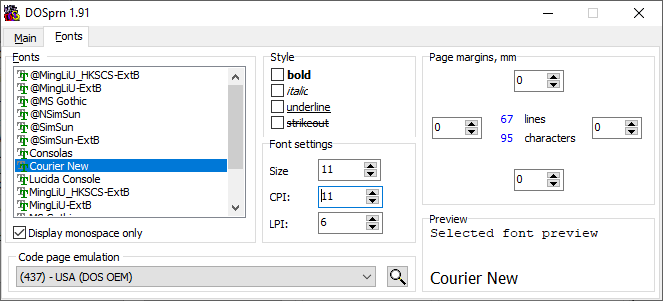
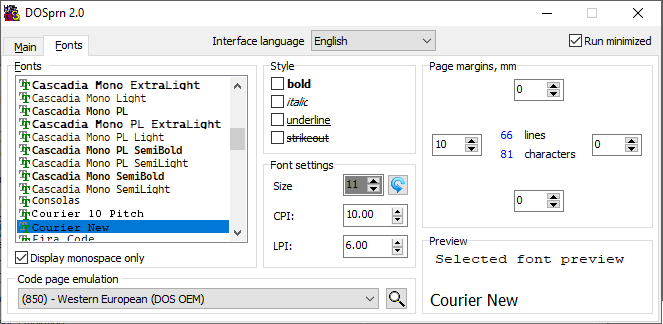
v2.0

diff --git a/download.htm b/download.htm
@@ -1,5 +1,5 @@
 <!DOCTYPE HTML PUBLIC "-//W3C//DTD HTML 4.0 Transitional//EN">
-<HTML><HEAD><TITLE>DOSPRN 1.91 download now for free</TITLE>
+<HTML><HEAD><TITLE>DOSPRN 2.0 download now for free</TITLE>
 <META http-equiv=Content-Language content=en-us>
 <META http-equiv=Content-Type content="text/html; charset=windows-1252">
 <META name=Keywords content="dos print usb, dos print download, dos printer, dos usb driver, dos print command, DOS, printers, printer USB, LPT, DOS program" >
@@ -20,7 +20,7 @@
 <TABLE cellSpacing=0 cellPadding=6 width=50% style="max-width:640px" border=0>
   <TR>
     <TD width=100%>
-      <div style="float:left"><IMG src="images/logo.gif" ALT="DOS USB print under Windows 10, Windows 8, Windows 7, Windows XP, Windows2000, Windows98"> <font size="5"><b>&nbsp;DOSPRN&nbsp;1.91&nbsp;</b></font></div>
+      <div style="float:left"><IMG src="images/logo.gif" ALT="DOS USB print under Windows 10, Windows 8, Windows 7, Windows XP, Windows2000, Windows98"> <font size="5"><b>&nbsp;DOSPRN&nbsp;2.0&nbsp;</b></font></div>
   
       <table border="2" bgcolor="#C0C0C0" cellpadding="4" cellspacing="4">
         <tr>
@@ -58,9 +58,8 @@
       and <a href="faq.htm">our FAQ</a>.<br>
       <br>
 
-      <a href="https://www.dosprn.com/DOSprn191.exe">
-
-      Click here for download the self-extracting file <i>DOSprn191.exe (1.9 Mb)</i></a><br>
+      <strong><a href="https://www.dosprn.com/DOSprn200.exe">
+      <font size="+1">Click here for download the self-extracting file <i>DOSprn200.exe (2.0 Mb)</i></font></a></strong><br>
       <br>
       DOSPRN will remind you about registration each time you print report from your DOS application. If you have
       any questions about
@@ -94,20 +93,14 @@
 
 </style>
 <div class='box green font-white'>
-<b>We offer you to download the pre-release of the new version of DOSPRN 2.0.<br>Added the ability to preview documents and save them in PDF format.<br><br>
-<a href="https://www.dosprn.com/DOSprn200.exe" class='font-white'>
-
-Click here to download the self-extracting file <i>DOSprn200.exe (2.0 Mb)</i> build from 2024/03/13</a><br><br>
-
-<P align=center><IMG height=200 src="mainw8.png" ALT="DOSBOX and VDOS printer" > </P>
 
 The file is safe and does not contain malicious code: <a href="https://www.virustotal.com/gui/url/5bb94ba94cbccc8a46e63064ace83655b5081754b4208c1f3b773fb17bcbcf07?nocache=1" class='font-white' target="_blank">
-<IMG src="images/virus-free-32.png" />VirusTotal Report</a>
+<IMG src="images/virus-free-32.png" alt="DOSPRN is safe"/>VirusTotal Report</a>
 
-<br><br>We will be happy to accept any comments and wishes. <br></b>
+<br></b>
 
 </div>
-      <p></p></TD></TR>
+      <p><br>We will be happy to accept any comments and wishes. <br></p></TD></TR>
   <TR>
     <TD align=middle width="100%" style="line-height:1.5">
       <HR><font size="+1">
@@ -124,7 +117,7 @@ The file is safe and does not contain malicious code: <a href="https://www.virus
 <!-- Google Code for pageview Conversion Page -->
 <script language="JavaScript" type="text/javascript">
 <!--
-var google_conversion_id = 105991.912;
+var google_conversion_id = 105992.02;
 var google_conversion_language = "en_US";
 var google_conversion_format = "1";
 var google_conversion_color = "CCCCCC";
@@ -137,7 +130,7 @@ var google_conversion_label = "pageview";
 <script language="JavaScript" src="https://www.googleadservices.com/pagead/conversion.js">
 </script>
 <noscript>
-<img height=1 width=1 border=0 src="https://www.googleadservices.com/pagead/conversion/105991.912/imp.gif?value=1.0&label=pageview&script=0">
+<img height=1 width=1 border=0 src="https://www.googleadservices.com/pagead/conversion/105992.02/imp.gif?value=1.0&label=pageview&script=0">
 </noscript>
 
 

diff --git a/news.htm b/news.htm
@@ -1,5 +1,5 @@
 <!DOCTYPE HTML PUBLIC "-//W3C//DTD HTML 4.0 Transitional//EN">
-<HTML><HEAD><TITLE>DOSPRN 1.91 whats new section, new features and bug fixes</TITLE>
+<HTML><HEAD><TITLE>DOSPRN 2.0 whats new section, new features and bug fixes</TITLE>
 <META http-equiv=Content-Language content=en-us>
 <META http-equiv=Content-Type content="text/html; charset=windows-1252">
 <META name=Keywords  content="dos print news, dos printer driver, dos printer, dos usb driver, dos print command, DOS, DOSBOX printers, DOSBOX program, DOSBOX print, DOSBOX printer, DOSBOX USB, DOSBOX programs, DOSBOX LPT, DOS program, DOSBOX software" >
@@ -20,7 +20,7 @@
 <TABLE cellSpacing=0 cellPadding=6 width=50% style="max-width:640px" border=0>
   <TR>
     <TD width=100%>
-      <div style="float:left"><IMG src="images/logo.gif" ALT="DOS USB print under Windows 8, Windows 7, Windows XP, Windows2000, Windows98"> <font size="5"><b>&nbsp;DOSPRN&nbsp;1.91&nbsp;</b></font></div>
+      <div style="float:left"><IMG src="images/logo.gif" ALT="DOS USB print under Windows 8, Windows 7, Windows XP, Windows2000, Windows98"> <font size="5"><b>&nbsp;DOSPRN&nbsp;2.0&nbsp;</b></font></div>
   
       <table border="2" bgcolor="#C0C0C0" cellpadding="4" cellspacing="4">
         <tr>
@@ -52,11 +52,11 @@
       <H1>What's new</H1>
 
       <P><B>Version 2.0</B></P>
-      + added "Print Preview" option<br>
-      + added "Print To PDF" option<br>
+      + added <a href="print-preview.htm">Print Preview</a> option<br>
+      + added <a href="pdf-settings.htm">Print To PDF</a> option<br>
       + added support serial ports COM1..COM3<br>
       + added Save and Load settings service options<br>
-      + added the ability to create a "QR code" from the text embedded in the report<br>
+      + added the ability to create a <a href="inline-qrcode.htm">QR code</a> from the text embedded in the report<br>
       + added language interface in Traditional Chinese<br>
       + added partial emulation of ETEN Chinese sequences<br>
       * major interface changes<br>

diff --git a/inline-qrcode.htm b/inline-qrcode.htm
@@ -1,5 +1,5 @@
 <!DOCTYPE HTML PUBLIC "-//W3C//DTD HTML 4.0 Transitional//EN">
-<HTML><HEAD><TITLE>DOSPRN 1.91 inline qrcode allows to create QR-codes</TITLE>
+<HTML><HEAD><TITLE>DOSPRN 2.0 inline qrcode allows to create QR-codes</TITLE>
 <META http-equiv=Content-Language content=en-us>
 <META http-equiv=Content-Type content="text/html; charset=utf-8">
 <META name=Keywords  content="inline qrcode, DOS report bitmap, dos print command, DOS, printers, program, print, printer, USB, programs, LPT, DOS program, software, national, language, qr-code" >
@@ -20,7 +20,7 @@
 <TABLE cellSpacing=0 cellPadding=6 width=50% style="max-width:640px" border=0>
   <TR>
     <TD width=100%>
-      <div style="float:left"><IMG src="images/logo.gif" ALT="DOS USB print under Windows 11, Windows 10, Windows 8, Windows 7, Windows XP, Windows2000, Windows98"> <font size="5"><b>&nbsp;DOSPRN&nbsp;1.91&nbsp;</b></font></div>
+      <div style="float:left"><IMG src="images/logo.gif" ALT="DOS USB print under Windows 11, Windows 10, Windows 8, Windows 7, Windows XP, Windows2000, Windows98"> <font size="5"><b>&nbsp;DOSPRN&nbsp;2.0&nbsp;</b></font></div>
   
       <table border="2" bgcolor="#C0C0C0" cellpadding="4" cellspacing="4">
         <tr>
@@ -55,7 +55,10 @@
 	<h4>Escape commands could have a format</h4>
 
 <code>
-ESC~9;ZZ;"filename.txt" - print QR-code, where ZZ - is a zoom factor<br>
+ESC~7;ZZ;"qrcode raw text" - print a QR code from the raw text<br><br>
+ESC~8;ZZ;"filename.txt" - print the QR code from the file in UTF-8<br><br>
+ESC~9;ZZ;"filename.txt" - print a QR code from the file with the same code page as the main report<br><br>
+where ZZ - is a zoom factor<br>
 </code>
 
 	<h4>This is a part of a demo program in the BASIC syntax includes sample QR-code file into the document:</h4>

diff --git a/readme.htm b/readme.htm
@@ -1,5 +1,5 @@
 <!DOCTYPE HTML PUBLIC "-//W3C//DTD HTML 4.0 Transitional//EN">
-<HTML><HEAD><TITLE>DOSPRN 1.91 manual and main features description</TITLE>
+<HTML><HEAD><TITLE>DOSPRN 2.0 manual and main features description</TITLE>
 <META http-equiv=Content-Type content="text/html; charset=windows-1252">
 <META http-equiv=Content-Language content=en-us>
 <META name=Keywords  content="DOS, printers, program, print, printer, USB, programs, LPT, DOS program, software, national, language, internanional" >
@@ -19,7 +19,7 @@
 <TABLE cellSpacing=0 cellPadding=6 width=50% style="max-width:640px" border=0>
   <TR>
     <TD width=100%>
-      <div style="float:left"><IMG src="images/logo.gif" ALT="DOS USB print under Windows 8, Windows 7, Windows XP, Windows2000, Windows98"> <font size="5"><b>&nbsp;DOSPRN&nbsp;1.91&nbsp;</b></font></div>
+      <div style="float:left"><IMG src="images/logo.gif" ALT="DOS USB print under Windows 8, Windows 7, Windows XP, Windows2000, Windows98"> <font size="5"><b>&nbsp;DOSPRN&nbsp;2.0&nbsp;</b></font></div>
   
       <table border="2" bgcolor="#C0C0C0" cellpadding="4" cellspacing="4">
         <tr>
@@ -61,7 +61,7 @@
       should register your copy or remove it completely from your computer with the uninstall utility under the DOSPRN Program Group.</P>
       <H3 align=justify>Installation</H3>
       <P align=justify>Download and run the self-extracting file <I>
-      <a href="https://www.dosprn.com/DOSprn191.exe">DOSprn191.exe</a></I>. 
+      <a href="https://www.dosprn.com/DOSprn200.exe">DOSprn200.exe</a></I>. 
       You'll be asked some simple questions. During installation, 
       DOSPRN copies all needed files and shortcuts to your computer.</P>
       <H3 align=justify>Program Start</H3>You can start DOSPRN by

diff --git a/vox.htm b/vox.htm
@@ -1,5 +1,5 @@
 <!DOCTYPE HTML PUBLIC "-//W3C//DTD HTML 4.0 Transitional//EN">
-<HTML><HEAD><TITLE>DOSPRN 1.91 testimonials and user reviews</TITLE>
+<HTML><HEAD><TITLE>DOSPRN 2.0 testimonials and user reviews</TITLE>
 <META http-equiv=Content-Language content=en-us>
 <META http-equiv=Content-Type content="text/html; charset=utf-8">
 <META name=Description content="What spoke ordinary users and writers in technical reviews about DOSPRN software">
@@ -20,7 +20,7 @@
 <TABLE cellSpacing=0 cellPadding=6 width=50% style="max-width:640px" border=0>
   <TR>
     <TD width=100%>
-      <div style="float:left"><IMG src="images/logo.gif" ALT="DOS USB print under Windows 8, Windows 7, Windows XP, Windows2000, Windows98"> <font size="5"><b>&nbsp;DOSPRN&nbsp;1.91&nbsp;</b></font></div>
+      <div style="float:left"><IMG src="images/logo.gif" ALT="DOS USB print under Windows 8, Windows 7, Windows XP, Windows2000, Windows98"> <font size="5"><b>&nbsp;DOSPRN&nbsp;2.0&nbsp;</b></font></div>
   
       <table border="2" bgcolor="#C0C0C0" cellpadding="4" cellspacing="4">
         <tr>
@@ -201,7 +201,7 @@ So happy to support your efforts.&quot;</p>
           </td>
         </tr>
         <tr>
-          <td><i>Francis G. McCloskey &lt;FrFrancis&#64;OhSaratoga.com&gt;</i><p>&quot;...A small bunch of us are still using DOSprn 1.91 with out DOS EnableOA program and think it's 
+          <td><i>Francis G. McCloskey &lt;FrFrancis&#64;OhSaratoga.com&gt;</i><p>&quot;...A small bunch of us are still using DOSprn 2.0 with out DOS EnableOA program and think it's 
 	  the best DOS to Windows printers program out there..........&quot;</p>
           <hr width="90%" color="#008000">
           </td>

diff --git a/order.htm b/order.htm
@@ -1,5 +1,5 @@
 <!DOCTYPE HTML PUBLIC "-//W3C//DTD HTML 4.0 Transitional//EN">
-<HTML><HEAD><TITLE>Order DOSPRN 1.91 online. We offer wholesale discounts</TITLE>
+<HTML><HEAD><TITLE>Order DOSPRN 2.0 online. We offer wholesale discounts</TITLE>
 <META http-equiv=Content-Language content=en-us>
 <META http-equiv=Content-Type content="text/html; charset=windows-1252">
 <META name=Keywords content="DOS print order, DOS2usb purchase, DOS printers, program, print, printer, DOS USB, programs, LPT, DOS program, DOS software">
@@ -39,7 +39,7 @@ function gtag_report_conversion(url) {
 <TABLE cellSpacing=0 cellPadding=6 width=50% style="max-width:640px" border=0>
   <TR>
     <TD width=100%>
-      <div style="float:left"><IMG src="images/logo.gif" ALT="DOS USB print under Windows 8, Windows 7, Windows XP, Windows2000, Windows98"> <font size="5"><b>&nbsp;DOSPRN&nbsp;1.91&nbsp;</b></font></div>
+      <div style="float:left"><IMG src="images/logo.gif" ALT="DOS USB print under Windows 8, Windows 7, Windows XP, Windows2000, Windows98"> <font size="5"><b>&nbsp;DOSPRN&nbsp;2.0&nbsp;</b></font></div>
   
       <table border="2" bgcolor="#C0C0C0" cellpadding="4" cellspacing="4">
         <tr>
@@ -89,7 +89,7 @@ After expiry of the trial period, you&nbsp;should register this program.</P>
 
       <P>
       If your DOSPRN's trial period has been expired now you can download and install
-      a <a href="https://www.dosprn.com/DOSprn191.exe">special "vacation" build</a> of DOSPRN 1.91. The trial period will be 
+      a <a href="https://www.dosprn.com/DOSprn200.exe">special "vacation" build</a> of DOSPRN 2.0. The trial period will be 
       expanded up to August, 1.
       </P>
 -->

diff --git a/index.htm b/index.htm
@@ -1,5 +1,6 @@
 <!DOCTYPE HTML PUBLIC "-//W3C//DTD HTML 4.0 Transitional//EN">
 <HTML><HEAD>
+<link rel="canonical" href="https://www.dosprn.com/" />
 <TITLE>DOS print USB Windows printers</TITLE>
 <META http-equiv=Content-Type content="text/html; charset=utf-8">
 <META http-equiv=Content-Language content=en-us>
@@ -24,7 +25,7 @@
 <TABLE cellSpacing=0 cellPadding=6 width=50% style="max-width:640px" border=0>
   <TR>
     <TD width=100%>
-      <div style="float:left"><IMG src="images/logo.gif" ALT="DOS USB print under Windows 8, Windows 7, Windows XP, Windows2000, Windows98">    <font size="5"><b>&nbsp;DOSPRN&nbsp;1.91&nbsp;</b></font></div>
+      <div style="float:left"><IMG src="images/logo.gif" ALT="DOS USB print under Windows 8, Windows 7, Windows XP, Windows2000, Windows98">    <font size="5"><b>&nbsp;DOSPRN&nbsp;2.0&nbsp;</b></font></div>
 
       <table border="2" bgcolor="#C0C0C0" cellpadding="4" cellspacing="4">
         <tr>
@@ -67,7 +68,7 @@
       language</b>. If your printer does not support your language in text mode, 
       DOSPRN will be a good helper.</P>
       <P>DOSPRN is distributed as shareware. Download it <I><B>
-      <A href="https://www.dosprn.com/DOSprn191.exe">
+      <A href="https://www.dosprn.com/DOSprn200.exe">
       NOW</A></B></I> and make DOS print free.
       </P>
 

diff --git a/languages.htm b/languages.htm
@@ -3,7 +3,7 @@
 <meta http-equiv="Content-Type" content="text/html; charset=utf-8">
 <meta name="Keywords" content="print in dos, dos printer driver, dos printer, dos usb driver, dos print command, DOS, printers, program, print, printer, USB, programs, LPT, DOS program, software, national, language, internanional">
 <meta name="Description" content="DOSPRN allow to use your old favorite DOS program with new printers. List of supported interface languages">
-<TITLE>DOSPRN 1.91 languages supported</TITLE>
+<TITLE>DOSPRN 2.0 languages supported</TITLE>
 <meta name=viewport content="width=device-width, initial-scale=1">
 
 <script type="text/javascript">
@@ -20,7 +20,7 @@
 <TABLE cellSpacing=0 cellPadding=6 width=50% style="max-width:640px" border=0>
   <TR>
     <TD width=100%>
-      <div style="float:left"><IMG src="images/logo.gif" ALT="DOS USB print under Windows 8, Windows 7, Windows XP, Windows2000, Windows98"> <font size="5"><b>&nbsp;DOSPRN&nbsp;1.91&nbsp;</b></font></div>
+      <div style="float:left"><IMG src="images/logo.gif" ALT="DOS USB print under Windows 8, Windows 7, Windows XP, Windows2000, Windows98"> <font size="5"><b>&nbsp;DOSPRN&nbsp;2.0&nbsp;</b></font></div>
   
       <table border="2" bgcolor="#C0C0C0" cellpadding="4" cellspacing="4">
         <tr>

diff --git a/sequences.htm b/sequences.htm
@@ -1,5 +1,5 @@
 <!DOCTYPE HTML PUBLIC "-//W3C//DTD HTML 4.0 Transitional//EN">
-<HTML><HEAD><TITLE>DOSPRN 1.91 supported ESC sequences</TITLE>
+<HTML><HEAD><TITLE>DOSPRN 2.0 supported ESC sequences</TITLE>
 <META http-equiv=Content-Type content="text/html; charset=windows-1251">
 <META name=Keywords  content="dos printer driver, dos printer, dos usb driver, dos print command, DOS, printers, program, print, printer, USB, programs, LPT, DOS program, software, national, language, internanional" >
 <META name=Description  content="DOSPRN allow to use your old favorite DOS program with new printers. Support emulation of different escape specifications" >
@@ -19,7 +19,7 @@
 <TABLE cellSpacing=0 cellPadding=6 width=50% style="max-width:640px" border=0>
   <TR>
     <TD width=100%>
-      <div style="float:left"><IMG src="images/logo.gif" ALT="DOS USB print under Windows 8, Windows 7, Windows XP, Windows2000, Windows98"> <font size="5"><b>&nbsp;DOSPRN&nbsp;1.91&nbsp;</b></font></div>
+      <div style="float:left"><IMG src="images/logo.gif" ALT="DOS USB print under Windows 8, Windows 7, Windows XP, Windows2000, Windows98"> <font size="5"><b>&nbsp;DOSPRN&nbsp;2.0&nbsp;</b></font></div>
   
       <table border="2" bgcolor="#C0C0C0" cellpadding="4" cellspacing="4">
         <tr>

diff --git a/codepages.htm b/codepages.htm
@@ -1,4 +1,4 @@
-<HTML><HEAD><TITLE>DOSPRN 1.91 codepages list and code page files format</TITLE>
+<HTML><HEAD><TITLE>DOSPRN 2.0 codepages list and code page files format</TITLE>
 <META http-equiv=Content-Type content="text/html; charset=utf-8">
 <META name=Keywords content="dos printer driver, dos code, dos codepages, dos codepages, dos printer, dos usb driver, dos print command, DOS, printers, program, print, printer, USB, programs, LPT, DOS program, software, national, language, internanional">
 <META name=Description content="DOSPRN allow to use your old favorite DOS program with new printers. DOSPRN emulates many code pages">
@@ -17,7 +17,7 @@
 <TABLE cellSpacing=0 cellPadding=6 width=50% style="max-width:640px" border=0>
   <TR>
     <TD width=100%>
-      <div style="float:left"><IMG src="images/logo.gif" ALT="DOS USB print under Windows 8, Windows 7, Windows XP, Windows2000, Windows98"> <font size="5"><b>&nbsp;DOSPRN&nbsp;1.91&nbsp;</b></font></div>
+      <div style="float:left"><IMG src="images/logo.gif" ALT="DOS USB print under Windows 8, Windows 7, Windows XP, Windows2000, Windows98"> <font size="5"><b>&nbsp;DOSPRN&nbsp;2.0&nbsp;</b></font></div>
   
       <table border="2" bgcolor="#C0C0C0" cellpadding="4" cellspacing="4">
         <tr>

diff --git a/login.htm b/login.htm
@@ -1,5 +1,5 @@
 <!DOCTYPE HTML PUBLIC "-//W3C//DTD HTML 4.0 Transitional//EN">
-<HTML><HEAD><TITLE>DOSPRN 1.91 registered users login</TITLE>
+<HTML><HEAD><TITLE>DOSPRN 2.0 registered users login</TITLE>
 <META http-equiv=Content-Language content=en-us>
 <META http-equiv=Content-Type content="text/html; charset=windows-1252">
 <META name=Keywords  content="dos printer driver, dos printer, dos usb driver, dos print command, DOS, printers, program, print, printer, USB, programs, LPT, DOS program, software, national, language, internanional" >
@@ -72,7 +72,7 @@ input {
 <TABLE cellSpacing=0 cellPadding=6 width=50% style="max-width:640px" border=0>
   <TR>
     <TD width=100%>
-      <div style="float:left"><IMG src="images/logo.gif" ALT="DOS USB print under Windows 8, Windows 7, Windows XP, Windows2000, Windows98"> <font size="5"><b>&nbsp;DOSPRN&nbsp;1.91&nbsp;</b></font></div>
+      <div style="float:left"><IMG src="images/logo.gif" ALT="DOS USB print under Windows 8, Windows 7, Windows XP, Windows2000, Windows98"> <font size="5"><b>&nbsp;DOSPRN&nbsp;2.0&nbsp;</b></font></div>
   
       <table border="2" bgcolor="#C0C0C0" cellpadding="4" cellspacing="4">
         <tr>

diff --git a/story.htm b/story.htm
@@ -1,5 +1,5 @@
 <!DOCTYPE HTML PUBLIC "-//W3C//DTD HTML 4.0 Transitional//EN">
-<HTML><HEAD><TITLE>Our mission. DOSPRN 1.91 printing story</TITLE>
+<HTML><HEAD><TITLE>Our mission. DOSPRN 2.0 printing story</TITLE>
 <META http-equiv=Content-Language content=en-us>
 <META http-equiv=Content-Type content="text/html; charset=windows-1252">
 <META name=Keywords  content="DOS reports, printing story, dos usb driver, dos print command, DOS, printers, program, print, printer, USB, programs, LPT, DOS program, software, national, language, internanional" >
@@ -20,7 +20,7 @@
 <TABLE cellSpacing=0 cellPadding=6 width=50% style="max-width:640px" border=0>
   <TR>
     <TD width=100%>
-      <div style="float:left"><IMG src="images/logo.gif" ALT="DOS USB print under Windows 8, Windows 7, Windows XP, Windows2000, Windows98"> <font size="5"><b>&nbsp;DOSPRN&nbsp;1.91&nbsp;</b></font></div>
+      <div style="float:left"><IMG src="images/logo.gif" ALT="DOS USB print under Windows 8, Windows 7, Windows XP, Windows2000, Windows98"> <font size="5"><b>&nbsp;DOSPRN&nbsp;2.0&nbsp;</b></font></div>
   
       <table border="2" bgcolor="#C0C0C0" cellpadding="4" cellspacing="4">
         <tr>
